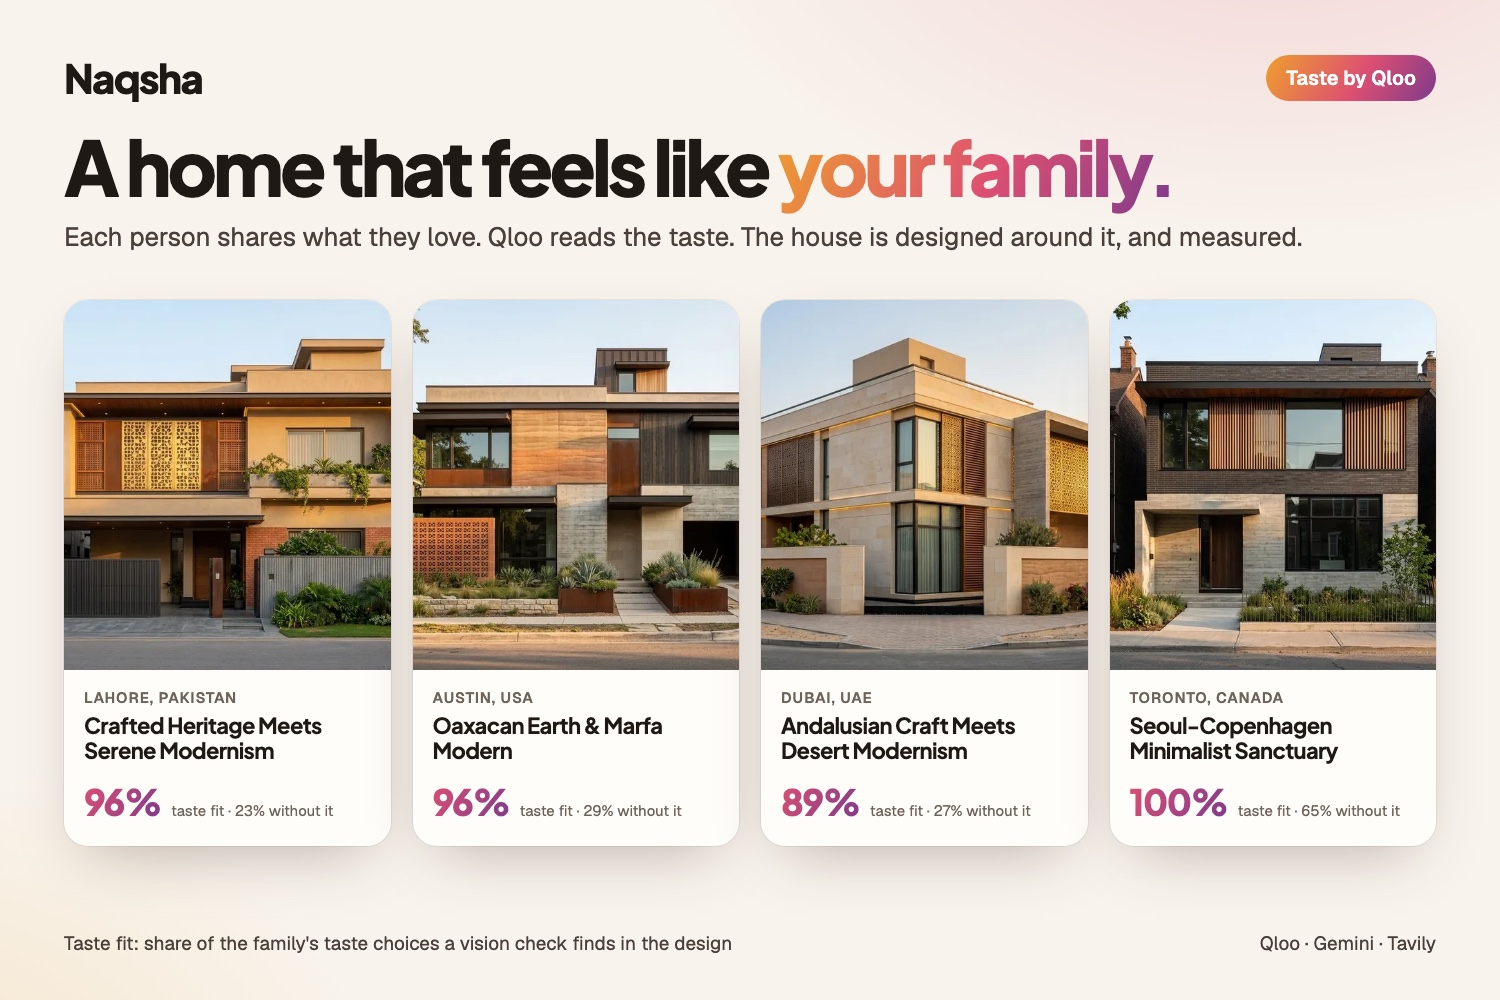
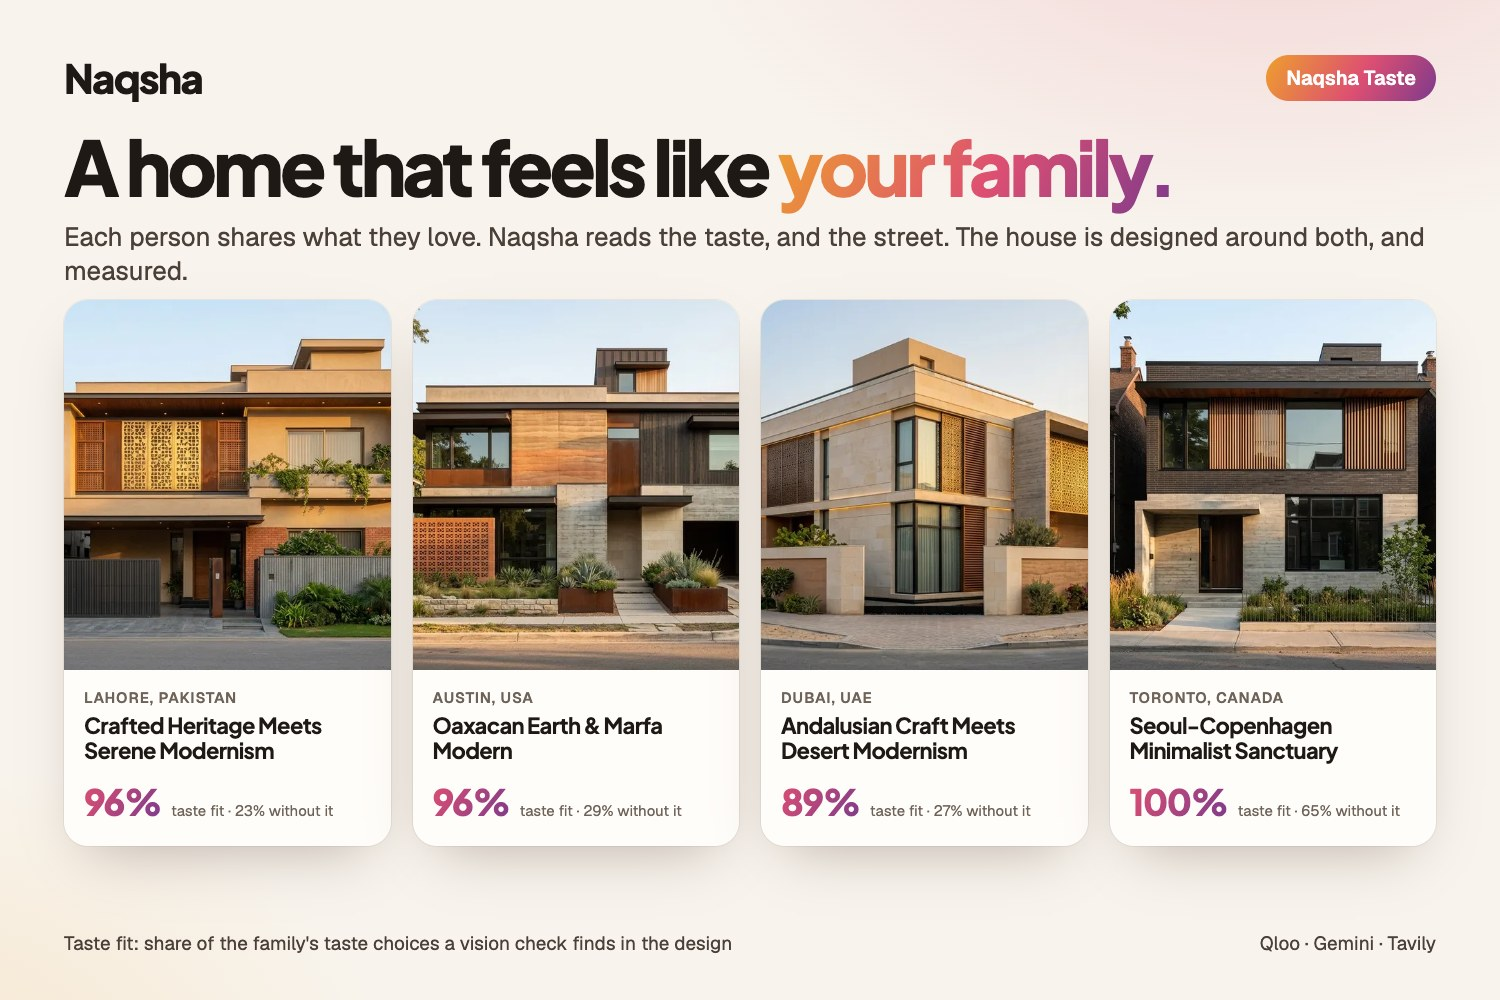
README: the neighbourhood read and Naqsha Taste; images carry the new name

Changed region(s): [[0.3067, 0.217, 0.9507, 0.248], [0.8587, 0.062, 0.9507, 0.093], [0.0307, 0.248, 0.1227, 0.279]]

diff --git a/README.md b/README.md
@@ -14,9 +14,10 @@ Language models can guess that someone who loves Kyoto might like timber and cal
 | What Naqsha asks Qloo | Qloo API | What the design gets from it |
 |---|---|---|
 | Find each favourite | `/search` | The family's films, artists, shows, places, restaurants and brands as Qloo entities (with their own tags) |
-| The taste behind each person's favourites, and the family's together | `/v2/insights`, `filter.type=urn:tag` (Taste Analysis), aesthetic property, personal style, cultural relevance, lifestyle and emotional tone tags, diversified by type, with explainability | "Traditional Craftsmanship", "Modern Silhouettes", "Rich Textiles", "Refined Elegance"…, each tied to the favourites that point to it |
+| The taste behind each person's favourites, and the family's together | `/v2/insights`, `filter.type=urn:tag` (Taste Analysis), aesthetic property, personal style, cultural relevance, lifestyle and emotional tone tags, diversified by type, with explainability (for families who name only places: their character, culture and scenery tags) | "Traditional Craftsmanship", "Modern Silhouettes", "Rich Textiles", "Refined Elegance"…, each tied to the favourites that point to it |
 | Destinations and brands people with that taste love | `/v2/insights`, `urn:entity:destination` / `urn:entity:brand` (fashion and retail) | Architectural references and textile language beyond what the family named |
-| How the neighbourhood feels | `/v2/insights`, `urn:entity:place` with `filter.location.query` | The area's character, read from the ambience, decor and setting tags of its places |
+| Where the plot is | `/search`, `types=urn:entity:locality` | The neighbourhood's own point (DHA Phase 6, Travis Heights, Leslieville), for the map pin and every search around it |
+| How the neighbourhood feels, from the first message | `/v2/insights`, `urn:entity:place` with `filter.location` = the locality's point and a 2 km radius | The places people love around the plot, pinned on a map, and the area's character from their ambience, decor and setting tags; Gemini Flash turns them into four ideas for the house and one-tap suggestions, before the family shares any favourites |
 | Places there that suit the family | the same, with `signal.interests.entities` and place-category tags | Galleries, makers and shops for the interiors |
 | Pictures of the places they love | entity `properties.images` from the calls above | Passed to the image model with the family's own exterior to ground each person's room |
 | "Make the lounge feel more like Istanbul" | `/search` + Taste Analysis, from the revision agent | The change is designed from Qloo's reading of Istanbul |
@@ -45,19 +46,20 @@ of the places people love in their area.
 Even Naqsha's one-tap suggestions come from Qloo ("Add Marrakech brass screens for privacy", "Try Santorini white arches on
 balconies"), each with its evidence.
 
-Only favourites and a place name are sent to Qloo, never names or personal data. Qloo results are cached privately on the server and never stored in this repository.
+In the app the feature is simply **Naqsha Taste**: families never see a data source's name, a tag id or a score they didn't ask for. Only favourites and a place name are sent to Qloo, never names or personal data. Qloo results are cached privately on the server and never stored in this repository.
 
 ## What it does
 
 1. **Brief.** One message is enough: *"10 marla in DHA Phase 6 Lahore, four bedrooms, parents downstairs."* A setup agent (Google ADK, Gemini) records the brief and asks only what's missing. Or **upload a drawing** of a plan, and a vision model reads it room by room.
-2. **Taste.** Each person adds a few favourites. The **taste agent** gathers each person's taste and the family's from Qloo, explores further with Qloo tools where it matters (Gemini 3.8 Flash: a destination worth reading, local makers), and Gemini 4 Argon writes the family's **style brief**: exterior, interiors, a room for each person, the garden, four concept directions and the key decisions. Every choice carries "because" chips that show the Qloo evidence behind it.
-3. **Measured, every time.** Each concept shows its taste fit, next to the same brief drawn without the family's taste. No favourites? The locality's taste is read from Qloo first, so no design is generic.
-4. **A room for each of you.** Each room follows one person's taste, or everyone's. Switch whose taste a room follows and it is restyled from their Qloo tags, then pictured as a photoreal interior.
-5. **Concepts.** Four exteriors, one per taste direction: the family's shared taste, the parents', a fit with the neighbourhood, and a bolder direction from an adjacent taste. Each says why it suits them.
-6. **Rules for the city.** Lahore's LDA rules ship hand-verified; for any other city the agent researches the authority's bylaws with **Tavily** and writes a cited rule pack.
-7. **Plan.** The architect drafts four plans in parallel from proven layouts; a deterministic rules engine scores them against the bylaws and livable-home rules, and two tool-using fixer agents repair the best ones edit by edit until every check passes.
-8. **House.** The 3D model is written as code against our House SDK (three.js), built from the chosen concept feature by feature and furnished from the family's palettes and materials, room by room. A vision check compares it with the concept and rebuilds what's missing. Photos from the road, the corner, the garden and the air are made from the model.
-9. **Walk, comment, revise.** Walk through in first person, pin a note on any wall, share a link so relatives can comment from their phones. The revision agent applies the notes in the family's taste, re-checks the rules and answers each one.
+2. **Your neighbourhood, from the first message.** As soon as the brief knows the place, Naqsha walks the neighbourhood: the plot is pinned on a 3D map among the places people love around it (each with its photo and how it feels), with a reading of the area and four ideas a house there could take from it: the facade, inside, the garden and how the family will live. Hover an idea and the places behind it light up. The first concepts take their facade and garden from it, before anyone has shared a favourite.
+3. **Naqsha Taste.** Each person adds a few favourites. The **taste agent** gathers each person's taste and the family's from Qloo, explores further with Qloo tools where it matters (Gemini 3.8 Flash: a destination worth reading, local makers), and Gemini 4 Argon writes the family's **style brief**: exterior, interiors, a room for each person, the garden, four concept directions and the key decisions. Every choice carries "because" chips that show the Qloo evidence behind it.
+4. **Measured, every time.** Each concept shows its taste fit, next to the same brief drawn without the family's taste. No favourites? The locality's taste is read from Qloo first, so no design is generic.
+5. **A room for each of you.** Each room follows one person's taste, or everyone's. Switch whose taste a room follows and it is restyled from their Qloo tags, then pictured as a photoreal interior.
+6. **Concepts.** Four exteriors, one per taste direction: the family's shared taste, the parents', a fit with the neighbourhood, and a bolder direction from an adjacent taste. Each says why it suits them.
+7. **Rules for the city.** Lahore's LDA rules ship hand-verified; for any other city the agent researches the authority's bylaws with **Tavily** and writes a cited rule pack.
+8. **Plan.** The architect drafts four plans in parallel from proven layouts; a deterministic rules engine scores them against the bylaws and livable-home rules, and two tool-using fixer agents repair the best ones edit by edit until every check passes.
+9. **House.** The 3D model is written as code against our House SDK (three.js), built from the chosen concept feature by feature and furnished from the family's palettes and materials, room by room. A vision check compares it with the concept and rebuilds what's missing. Photos from the road, the corner, the garden and the air are made from the model.
+10. **Walk, comment, revise.** Walk through in first person, pin a note on any wall, share a link so relatives can comment from their phones. The revision agent applies the notes in the family's taste, re-checks the rules and answers each one.
 
 ## Screens
 
@@ -86,11 +88,12 @@ Captured from the live app with Playwright.
 
 | Step | Model |
 |---|---|
-| Setup agent, taste exploration (Qloo tools), rule research, quick JSON, vision reads | `gemini-3.8-flash` (Vertex AI) |
+| Setup agent, taste exploration (Qloo tools), the neighbourhood's ideas, rule research, quick JSON, vision reads | `gemini-3.8-flash` (Vertex AI) |
 | Style brief, plans, fixer agents, 3D model, revisions | `gemini-4-argon` (Vertex AI) |
 | Concepts, room pictures, photos | Gemini image models (Vertex AI) |
 | Taste | Qloo taste graph (hackathon API) |
 | Local rules | Tavily Search and Extract |
+| Neighbourhood map | MapLibre GL with OpenFreeMap vector tiles (© OpenStreetMap contributors) |
 
 ## Architecture
 
@@ -108,7 +111,7 @@ Cloud Run · FastAPI (serves the SPA and the API)
   └─ Firestore / Cloud Storage
 ```
 
-Code map: `api/app/qloo.py` (Qloo client), `api/app/agents/taste.py` (taste agent, room styling), `api/app/agents/` (architect, fixer, research, importer, views, setup, reviser), `api/app/compliance/` (rules engine), `contracts/` (plan schema, House SDK), `web/src/app/taste/` (the Taste view), `web/src/` (app, 3D engine, viewer).
+Code map: `api/app/qloo.py` (Qloo client), `api/app/agents/taste.py` (taste agent, room styling), `api/app/agents/` (architect, fixer, research, importer, views, setup, reviser), `api/app/compliance/` (rules engine), `contracts/` (plan schema, House SDK), `api/app/agents/locality.py` (the neighbourhood read), `web/src/app/taste/` (the Taste view and the neighbourhood map), `web/src/` (app, 3D engine, viewer).
 
 ## Run locally
 
